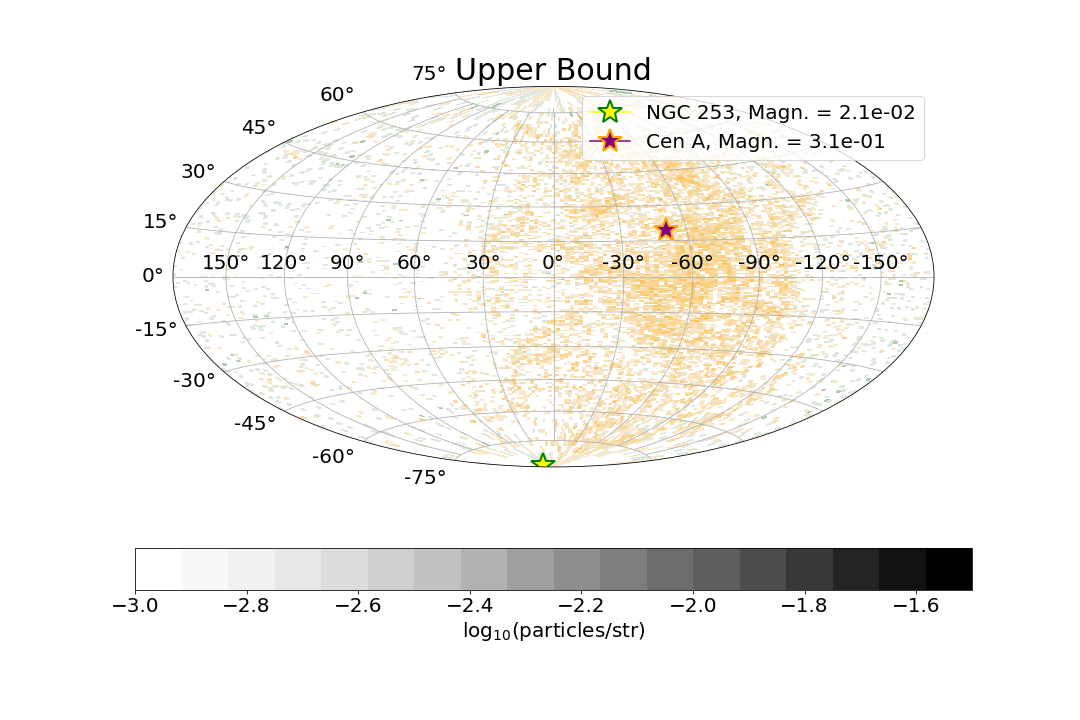
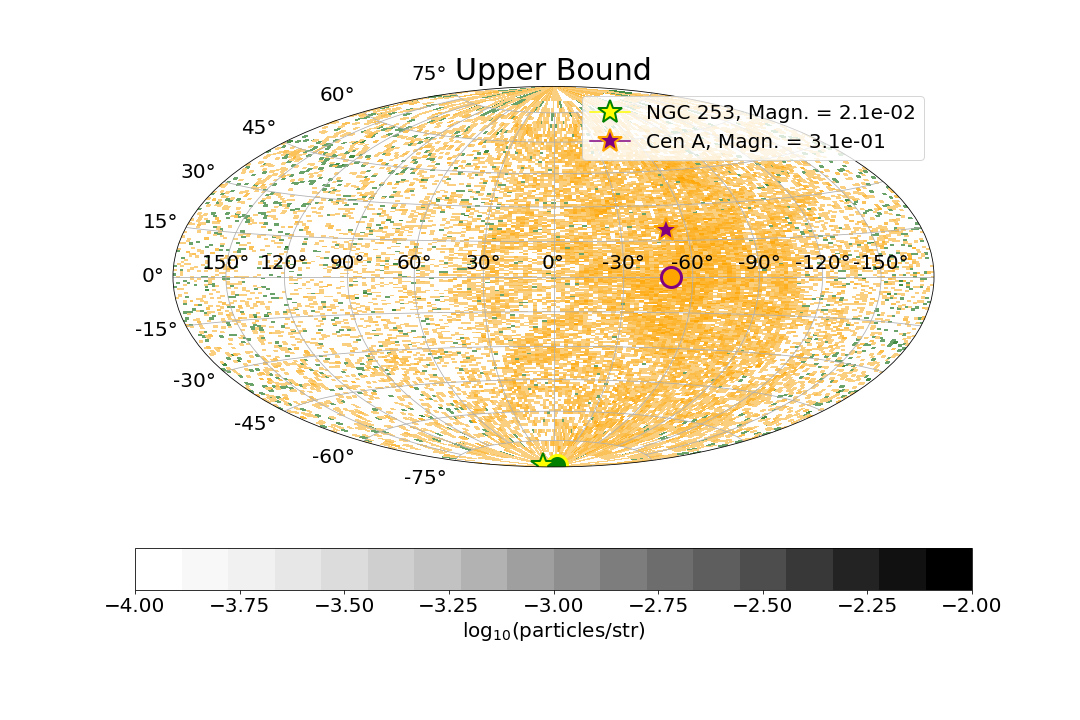
May 10

diff --git a/main.tex b/main.tex
@@ -52,7 +52,7 @@ $^{3}$Department of Physics, Khalifa University, P.O. Box 127788, Abu Dhabi, Uni
 \begin{abstract}
 We consider the synchrotron emission from electrons out in the Galactic halo region where the Fermi bubble structures reside. Utilising a simple analytical expression for the non-thermal electron distribution and a toy magnetic field model, we simulate polarised synchrotron emission maps at a frequency of 30~GHz. Comparing these maps with observational data, we obtain constraints on the parameters of our toy Galactic halo magnetic field model. Utilising this parameter value range for the toy magnetic field model, we determine the corresponding range of arrival directions and suppression factors of ultra high energy cosmic rays (UHECRs) from potential local source locations.
 
-We find high levels (down to 2\%) of flux suppression and large deflection angles ($>65^{\circ}$) for source locations whose line-of-sight pass through the Galactic halo bubble region. We conclude that the magnetic field out in this Galactic halo region can strongly dominate the level of deflection UHECRs experience whilst propagating from local sources to Earth.
+We find high levels of flux suppression (down to 2\%) and large deflection angles ($>80^{\circ}$) are possible for source locations whose line-of-sight pass through the Galactic halo bubble region. We conclude that the magnetic field out in the Galactic halo region can strongly dominate the level of deflection UHECRs experience whilst propagating from local sources to Earth.
 \end{abstract}
 
 \begin{keywords}
@@ -219,7 +219,7 @@ In Appendix~\ref{Appendix_C} an example case for these calculations is provided 
 %% Grid details
 Utilising the setup described in Section~\ref{Methods}, we generate a synthetic polarised synchrotron emission map for each parameter set of our toy model. The toy model comprises of 5 free parameters, (see Table~\ref{Para_table}). The radial cut off of the magnetic field and electron distribution is kept identical ($R_{\mathrm{Mag}}$ = $R_{\mathrm{el}}$) and the same applies to the azimuthal cut-off ($Z_{\mathrm{Mag}}$ = $Z_{\mathrm{el}}$). The reason for this constraint is that the synchrotron radiation level depends on both the non-thermal electron density and the magnetic field strength. Thus, even if the spatial extend of the magnetic field differs from the electron distribution, one can only probe the magnetic field in the region where both the magnetic field and non-thermal electrons are present. 
 For the spatial parameter scan, the parameter values scanned over for $R_{\mathrm{el}}$ and $Z_{\mathrm{el}}$ are 2~kpc to 19~kpc, with a scanning step size of 1~kpc. 
-However, the range over which both $B_{\rm str}$ and $B_{\rm tur}$ are scanned is binned logarithmically with 30 bins per decade between 2$~\mu$G to 18$~\mu$G. Likewise, for the $C_{\rm norm}$ we scanned between $10^{-14} \rm cm^{-3}$ to $10^{-11} \rm cm^{-3}$ with 10 bins per decade. The line-of-sight integration is carried out up to 14~kpc away from the Galactic center. Note that, for integration lengths of 8~kpc and more from the Galactic center, the reduced chi-square for the best fit case only differs in the 3rd decimal place. However, for a sufficient coverage of the sky we chose the value of 14~kpc.
+However, the range over which both $B_{\rm str}$ and $B_{\rm tur}$ are scanned is binned logarithmically with 30 bins per decade between 2$~\mu$G and 18$~\mu$G. Likewise, for the $C_{\rm norm}$ we scanned between $10^{-14} \rm cm^{-3}$ and $10^{-11} \rm cm^{-3}$, adopting 10 bins per decade. 
 
 %% Polarised Skymap
 
@@ -261,10 +261,10 @@ $B_{\mathrm{str}} $& $3.96_{-1.96}^{+6.63} ~ \mu$G & Structured field strength \
 $B_{\mathrm{tur}} $& $ 6.72_{-3.56}^{+9.97} ~\mu$G & Turbulent field strength\\
 \hline
 \rule{0pt}{3ex}
-$R_{\mathrm{Mag}}$ = $R_{\mathrm{el}}$ & $5_{0}^{+1}$~kpc & Radial cut off \\
+$R_{\mathrm{Mag}}$ = $R_{\mathrm{el}}$ & $5_{-0}^{+1}$~kpc & Radial cut off \\
 \hline
 \rule{0pt}{3ex}
-$Z_{\mathrm{Mag}}$ = $Z_{\mathrm{el}}$ & $6_{0}^{+1}$~kpc & Azimuthal cut off\\
+$Z_{\mathrm{Mag}}$ = $Z_{\mathrm{el}}$ & $6_{-0}^{+1}$~kpc & Azimuthal cut off\\
 \hline
 \rule{0pt}{3ex} 
 ${\rm{log_{10}}}~(C_{\rm norm} [{\rm cm}^{-3}]$) & ${-11.72}_{{-0.93}}^{{+0.62}}$ & Electron normalisation at 10~GeV\\
@@ -287,7 +287,9 @@ In Fig.~\ref{fig:Skymaps} the smoothened skymap obtained from the best-fit value
 %% Polarisation fraction
 The polarisation fraction obtained by our best-fit toy-model, given in Fig.~\ref{fig:Skymaps}, was calculated taking the ratio of the polarised to the total intensity. The polarisation fraction for the best-fit toy model is comparable to the values as seen in the observation data of \citet{WMAP_Page} and \citet{Carretti_2013}.
 
-We also did the scan with an exponential cut off in the turbulent fields similar to the one in structured fields ($B_{\rm tur} {\rm{e}}^{(-|z|/Z_{\rm{mag}})} {\rm{e}}^{(-|r|/R_{\rm{mag}}})$). In this case the best-fit quality decreases and we get ${B_{\rm str}}$ $<$ 2.7 $\mu$~G and $B_{\rm tur}$ $>$ 14.3 $\mu$~G  combined with large values for $R_{\rm Mag}$ (12~kpc $<$ $R_{\rm Mag}$ $<$ 13~kpc) and $Z_{\rm Mag}$ (11~kpc $<$ $Z_{\rm Mag}$ $<$ 16~kpc) and ${\rm log_{10}} C_{\rm norm}$ ( -12.44 $<$ ${\rm log_{10}}~C_{\rm norm}$ $<$  -12.34 ).
+\iffalse
+We also did the scan with an exponential cut off in the turbulent fields similar to the one in structured fields ($B_{\rm tur} {\rm{e}}^{-|z|/Z_{\rm{mag}}} {\rm{e}}^{-r/R_{\rm{mag}}}$). In this case, the best-fit quality decreases and we get ${B_{\rm str}}$ $<$ 2.7 $\mu$G and $B_{\rm tur}$ $>$ 14.3 $\mu$G  combined with large values for $R_{\rm Mag}$ (12~kpc $<$ $R_{\rm Mag}$ $<$ 13~kpc) and $Z_{\rm Mag}$ (11~kpc $<$ $Z_{\rm Mag}$ $<$ 16~kpc) and ${\rm log_{10}} C_{\rm norm}$ ( -12.44 $<$ ${\rm log_{10}}~C_{\rm norm}$ $<$  -12.34 ).
+\fi
 
 % \subsubsection{Results with cut off in turbulent fields}
 
@@ -342,36 +344,37 @@ In figure~\ref{fig:AD_Plots} we show:
     of cosmic rays from UHECR candidate sources Cen~A and NGC~253. Similar to the above case of the magnification maps we backtrack cosmic rays starting from Earth until they reached an escape radius of 20~kpc from the Galactic centre. The cosmic ray arrival directions from a region of $5^{\circ}$ from the source are then binned.  Like the magnification maps, we normalise these maps to the peak value of the histogram densities in the source region for the case of no magnetic fields.  This gives a normalised value of the number of hits ('Magn.') obtained. Analogous to the magnification maps the \textbf{top}, \textbf{middle} and \textbf{bottom} plots denote the 'Best-fit', 'Minimum' and 'Maximum' cases, respectively. 
     \end{enumerate}
 
-The deflections of UHECRs in the Galactic magnetic field are sensitive to both the structured and turbulent field components of the field in different ways. One of the first effects worth noting is the {\bf suppression effect} for cosmic rays from certain regions of the sky. For the 'Maximum' case, the toy magnetic field model gives rise to the largest suppression factor level in the magnification map, in comparison to the 'Best-fit' and 'Minimum' cases (see Table~\ref{Para_table}). These suppressions and enhancements of UHECRs from different regions of the sky are also seen in the skymaps provided for two potential UHECR sources, namely Cen~A (lon = $\rm -50.49^{\circ}$, lat = $\rm 19.42^{\circ}$) and NGC~253 (lon = $\rm 97.36^{\circ}$, lat = $\rm -87.96^{\circ}$). Because of their positions in the sky, both of these sources lie in the suppression region of the magnification maps for both the 'Best-fit' and 'Maximum' cases. In particular, we note that for NGC~253, the 'Maximum' toy model case leads to a suppression level of $\approx 5\%$ of the level that would arrive for the no magnetic field case, and $\approx 26\%$ for Cen~A.
+The deflections of UHECRs in the Galactic magnetic field are sensitive to both the structured and turbulent field components of the field in different ways. One of the first effects worth noting is the {\bf suppression effect} for cosmic rays from certain regions of the sky. For the 'Maximum' case, the toy magnetic field model gives rise to the largest suppression factor level in the magnification map, in comparison to the 'Best-fit' and 'Minimum' cases (see Table~\ref{Para_table}). These suppressions and enhancements of UHECRs from different regions of the sky are also seen in the skymaps provided for two potential UHECR sources, namely Cen~A (lon = $\rm -50.49^{\circ}$, lat = $\rm 19.42^{\circ}$) and NGC~253 (lon = $\rm 97.36^{\circ}$, lat = $\rm -87.96^{\circ}$). Because of their positions in the sky, both of these sources lie in the suppression region of the magnification maps for both the 'Best-fit' and 'Maximum' cases. In particular, we note that for NGC~253, the 'Maximum' toy model case leads to a suppression level of $\approx 2\%$ of the level that would arrive for the no magnetic field case, and $\approx 31\%$ for Cen~A.
 
 A second effect introduced by the turbulent magnetic fields is the {\bf spreading effect} (mean deflection angle) of cosmic rays around their originating source direction. In order to quantify this effect, a list is provided below of the mean deflection angle, ($\sigma_{\rm source}$), between the mean direction and the arrival directions of the cosmic rays for the two candidate sources considered:
 \newline
-\Vasu{Changes added here}
 \begin{itemize}
         \item Best fit - $\sigma_{\rm NGC~253} = 33^{\circ}$ , {$\sigma_{\rm Cen~A} = 35^{\circ}$}
         \item Minimum - $\sigma_{\rm NGC~253} = 16^{\circ}$ , $\sigma_{\rm Cen~A} = 21^{\circ}$
-        \item Maximum - $\sigma_{\rm NGC~253} = 67^{\circ}$, $\sigma_{\rm Cen~A} = 59^{\circ}$
+        \item Maximum - $\sigma_{\rm NGC~253} = 80^{\circ}$, $\sigma_{\rm Cen~A} = 59^{\circ}$
 \end{itemize}
 
 In comparison to the magnitude of these spreading angles, the mean deflection angle for Cen~A and NGC~253 from the JF12 torroidal halo field (JF12 halo) \citep{JF12}  are  $\sigma_{\rm NGC~253} = 9^{\circ}$ , and {$\sigma_{\rm Cen~A} = 22^{\circ}$}.  The spread of the cosmic rays obtained for our toy model are therefore potentially considerably larger (up to 5-10 times bigger) than those obtained for the JF12 toroidal halo. The primary driver of this difference is that our toy model possesses a larger level of turbulent magnetic fields than structured fields. It is also worth noting that the mean deflection angle of Cen A ($\sigma_{\rm Cen~A} = 35^{\circ}$) for the 'Best-fit' case of our toy model is comparable with the Pierre Auger Observatory (PAO) observations~\citep{PierreAuger_2014, Auger_ICRC_2021}. 
 
 Additional to this spreading effect, the presence of a structured field component in the magnetic field model leads to the {\bf coherent deflection} of the mean direction of the ensemble of cosmic rays away from the source direction. Following the propagation of cosmic rays from the two candidate sources NGC~253 and Cen~A, the mean source positions (lon, lat) for the three cases are as follows:
 \begin{itemize}
-    \item Best-fit - NGC~253: ($5^{\circ}$,$-65^{\circ}$) \& Cen~A: ($-48^{\circ}$,$8^{\circ}$) 
+    \item Best fit - NGC~253: ($2^{\circ}$,$-63^{\circ}$) \& Cen~A: ($-50^{\circ}$,$5^{\circ}$) 
     \item Minimum - NGC~253: ($7^{\circ}$,$-63^{\circ}$) \& Cen~A: ($-35^{\circ}$,$15^{\circ}$) 
-    \item Maximum - NGC~253: ($17^{\circ}$,$-40^{\circ}$) \& Cen~A: ($-50^{\circ}$,$13^{\circ}$) 
+    \item Maximum - NGC~253: ($-39^{\circ}$,$-88^{\circ}$) \& Cen~A: ($-50^{\circ}$,$-0.2^{\circ}$) 
 \end{itemize}
 
-In comparison, the mean shifted positions from the JF12 halo model for the two sources are  NGC~253: ($1^{\circ}$,$-33^{\circ}$) \& Cen~A: ($-47^{\circ}$,$-1^{\circ}$).
+In comparison, the mean shifted positions from the JF12 halo model for the two sources are  NGC~253: ($-0.8^{\circ}$,$-34^{\circ}$) \& Cen~A: ($-44^{\circ}$,$-1^{\circ}$).
 
-Additionally, for the case of cosmic rays from NGC~253, an interesting difference between our toy model and the JF12 halo model is worth noting. For the JF12 halo model (see Appendix~\ref{Appendix_D}), the mean position of cosmic rays from NGC~253 is situated at roughly a latitude of $-33^{\circ}$ (also seen in \citet{Arjen_2021}). \Vasu{Changed here} In contrast to this, in our 'Best-fit' toy model case this value is at approximately $-65^{\circ}$, which would be in better agreement with the PAO observations~\citep{Auger_Starburst2018} if this southern Galactic hemisphere hotspot does indeed originate from NGC~253. This difference in the position of mean direction is again an effect of our toy model having weaker structured fields in comparison to turbulent fields (see Table ~\ref{Para_table}), since structured fields dictate the extent of the mean deflection angle from the source position. 
+Additionally, for the case of cosmic rays from NGC~253, an interesting difference between our toy model and the JF12 halo model is worth noting. For the JF12 halo model (see Appendix~\ref{Appendix_D}), the mean shifted position of cosmic rays from NGC~253 is situated at roughly a latitude of $-34^{\circ}$ (also seen in \citet{Arjen_2021}). In contrast to this, in our 'Best-fit' toy model case this value is at approximately $-63^{\circ}$, which would be in better agreement with the PAO observations~\citep{Auger_Starburst2018} if this southern Galactic hemisphere hotspot does indeed originate from NGC~253. This difference in the position of mean direction is again an effect of our toy model having weaker structured fields in comparison to turbulent fields (see Table ~\ref{Para_table}), since structured fields dictate the extent of the mean deflection angle from the source position. 
 
-The suppression, spreading and coherent deflection effects place challenges on the association of cosmic rays to their originating sources. It can be seen that the 'Maximum' toy model magnetic field would make associating cosmic rays to their source extremely challenging at the energies considered, whereas the 'Best-fit' or 'Minimum' cases make this possible. This is due to the fact that the structured fields are responsible for the overall direction of the particle deflections, whereas turbulent fields are responsible for spreading out the directions of the particle deflections around this overall deflected direction. For cases in which the turbulent magnetic field component dominates, and this field strength component is large, the source directions can be completely washed-out. This washing-out of the source association is evident for the 'Maximum' case in Fig.~\ref{fig:AD_Plots}, cosmic rays from sources like NGC~253 are largely deflected from the source position by the magnetic field structure with a mean deflection angle of $\sigma_{\rm NGC~253} = 67^{\circ}$. Likewise, in the case of Centaurus~A the final positions are spread out over a large region of the sky with a mean deflection angle of $\sigma_{\rm Cen~A} = 59^{\circ}$, making association with the source position challenging. From both the magnification and arrival direction maps in Fig.~\ref{fig:AD_Plots}, it is evident that the best-fit and lower extreme ('Minimum') parameters allow some degree of association of the deflected UHECRs with their original source position. However, in the upper extreme ('Maximum') parameters, such a connection between the point of origin of cosmic rays and their final positions is heavily erased. 
+The suppression, spreading and coherent deflection effects place challenges on the association of cosmic rays to their originating sources. It can be seen that the 'Maximum' toy model magnetic field would make associating cosmic rays to their source extremely challenging at the energies considered, whereas the 'Best-fit' or 'Minimum' cases make this possible. This is due to the fact that the structured fields are responsible for the overall direction of the particle deflections, whereas turbulent fields are responsible for spreading out the directions of the particle deflections around this overall deflected direction. For cases in which the turbulent magnetic field component dominates, and this field strength component is large, the source directions can be completely washed-out. This washing-out of the source association is evident for the 'Maximum' case in Fig.~\ref{fig:AD_Plots}, cosmic rays from sources like NGC~253 are largely deflected from the source position by the magnetic field structure with a mean deflection angle of $\sigma_{\rm NGC~253} = 80^{\circ}$. Likewise, in the case of Centaurus~A the final positions are spread out over a large region of the sky with a mean deflection angle of $\sigma_{\rm Cen~A} = 59^{\circ}$, making association with the source position challenging. From both the magnification and arrival direction maps in Fig.~\ref{fig:AD_Plots}, it is evident that the best-fit and lower extreme ('Minimum') parameters allow some degree of association of the deflected UHECRs with their original source position. However, in the upper extreme ('Maximum') parameters, such a connection between the point of origin of cosmic rays and their final positions is heavily erased. 
 
 \section{Conclusions}
 \label{Conclusions}
 
-Utilising our toy model for the Galactic halo magnetic field, and making comparisons of the synchrotron emission predicted by it to the Planck 30~GHz data, we explore the region of model parameters capable of providing a good description of the data. Significant evidence is found for the presence of an extended magnetic field component out in the Galactic halo region. Our results are compatible with the Galactic halo magnetic field extending to 6~kpc in height above the Galactic disc. The total magnetic field content in the halo region from the best fit parameter set is $\approx 10^{55}$~ergs (with a comparable total energy in 1~GeV cosmic ray protons of $\approx 6\times 10^{55}$~ergs). We note that these values are comparable with observational inference made in \cite{eROSITA} which indicated the presence of some $10^{56}$~ergs of thermal particles in the Galactic halo.
+Utilising our toy model for the Galactic halo magnetic field, and making comparisons of the synchrotron emission predicted by it to the Planck 30~GHz data, we explore the region of model parameters capable of providing a good description of the data. Significant evidence is found for the presence of an extended magnetic field component out in the Galactic halo region. Our results are compatible with $\sim 7\mu$G Galactic halo magnetic field extending to 6~kpc in height above the Galactic disc, consistent with the magnetic field strength estimates in \cite{Carretti_2013} and the spatial extension scales in \cite{Su_2012}. The total magnetic field content in the halo region from the best fit parameter set is $\approx 10^{55}$~ergs. 
+%(with a comparable total energy in 1~GeV cosmic ray protons of $\approx 6\times 10^{55}$~ergs). 
+We note that these values are comparable with observational inference made in \cite{eROSITA} which indicated the presence of some $10^{56}$~ergs of thermal particles in the Galactic halo.
 In comparison to these energy contents, the total magnetic field energy content in the halo field component of the JF12 model is $4\times 10^{54}$~ergs and $3\times  10^{54}$~ergs for the toroidal halo and X-field respectively \citep{Taylor_2019}.
 
 Using the maximum and minimum constraints on the magnetic field model parameter values, the range of deflection that UHECRs experience in passing through such Galactic halo magnetic field structure was subsequently investigated. A significant range in predictions of both: a) the magnification of different regions of the extragalactic sky, and b) the deflection of cosmic rays arriving from different local extragalactic sources was found. This angular scale prediction from our magnetic field model are also in agreement with PAO observations~\citep{PierreAuger_2014, Auger_ICRC_2021}, for both the hotspot around Cen~A and the potential hotspot from NGC~253.
@@ -399,7 +402,7 @@ We adopt a narrow wavelength range for the turbulent fields, $L_{\rm min}=200$~p
   \delta B^{2}  =\frac{B_{0}^{2}}{q-1}\left[1-\left(\frac{L_{\rm min}}{L_{\rm max}}\right)^{q-1}\right] 
 \end{equation}
 Usually (for typical values of the turbulence cascade index, $q$,
-considered) this integral is insensitive to $L_{\rm min}$ , being dominated by the longest mode values, so where one truncates the lower end of the integral has only a small effect. The artificial enhancement of $B_0^2$ due to the truncation that we adopt is $\left[1-(1/2)^{q-1}\right]^{-1}$, which for $q=5/3$ is 2.7, corresponding to $B_0$ being artificially enhanced by $\sim $60\% due to the early truncation.
+considered) this integral is insensitive to $L_{\rm min}$ , being dominated by the longest mode values, so where one truncates the lower end of the integral has only a small effect. The artificial enhancement of $B_0^2$ due to the truncation that we adopt is $\left[1-(1/2)^{q-1}\right]^{-1}$, which for $q=5/3$ is 2.7, corresponding to $B_0$ being artificially enhanced by $\sim $60\% due to the early truncation of the turbulent spectrum adopted.
 
 
 \section{Turbulent field spectrum}
@@ -445,7 +448,7 @@ In case II we apply similar calculations to case I, however, now the angles are 
 We calculate the arrival directions of cosmic rays for two candidate sources, Cen~A and NGC~253, for the JF12 toroidal halo model~\citep{JF12}, shown in Fig.~\ref{JF12_AD}. We normalise these binned arrival directions by the peak value of the histogram obtained from the same setup without magnetic fields present. It can be seen from Fig.~\ref{JF12_AD} that the JF12 toroidal halo displaces the binned arrival directions to much higher latitudes in the case of NGC~253. This is because the structured field strength in the JF12 torroidal halo is stronger than the turbulent field and hence the mean deflection from the source position is larger.
 \begin{figure*}
 \centering
-\includegraphics[width=0.60\linewidth]{Images/Bins_180_CenA_NGC253_JF12_Halo_40_EeV.png}
+\includegraphics[width=0.60\linewidth]{Images/AD_30kpc/New_Bins_180_CenA_NGC253_JF12_Halo_40_EeV.png}
  \caption{Arrival direction map of cosmic rays (with $R \approx 6 \times 10^{18}$~V) deflected from the JF12 halo for two potential UHECR sources. It can be seen that the mean direction of the deflection for the JF12 toroidal halo is at a higher latitude than for the toy model, shown in Fig.~\ref{fig:AD_Plots}.}
 \label{JF12_AD}
 \end{figure*}
